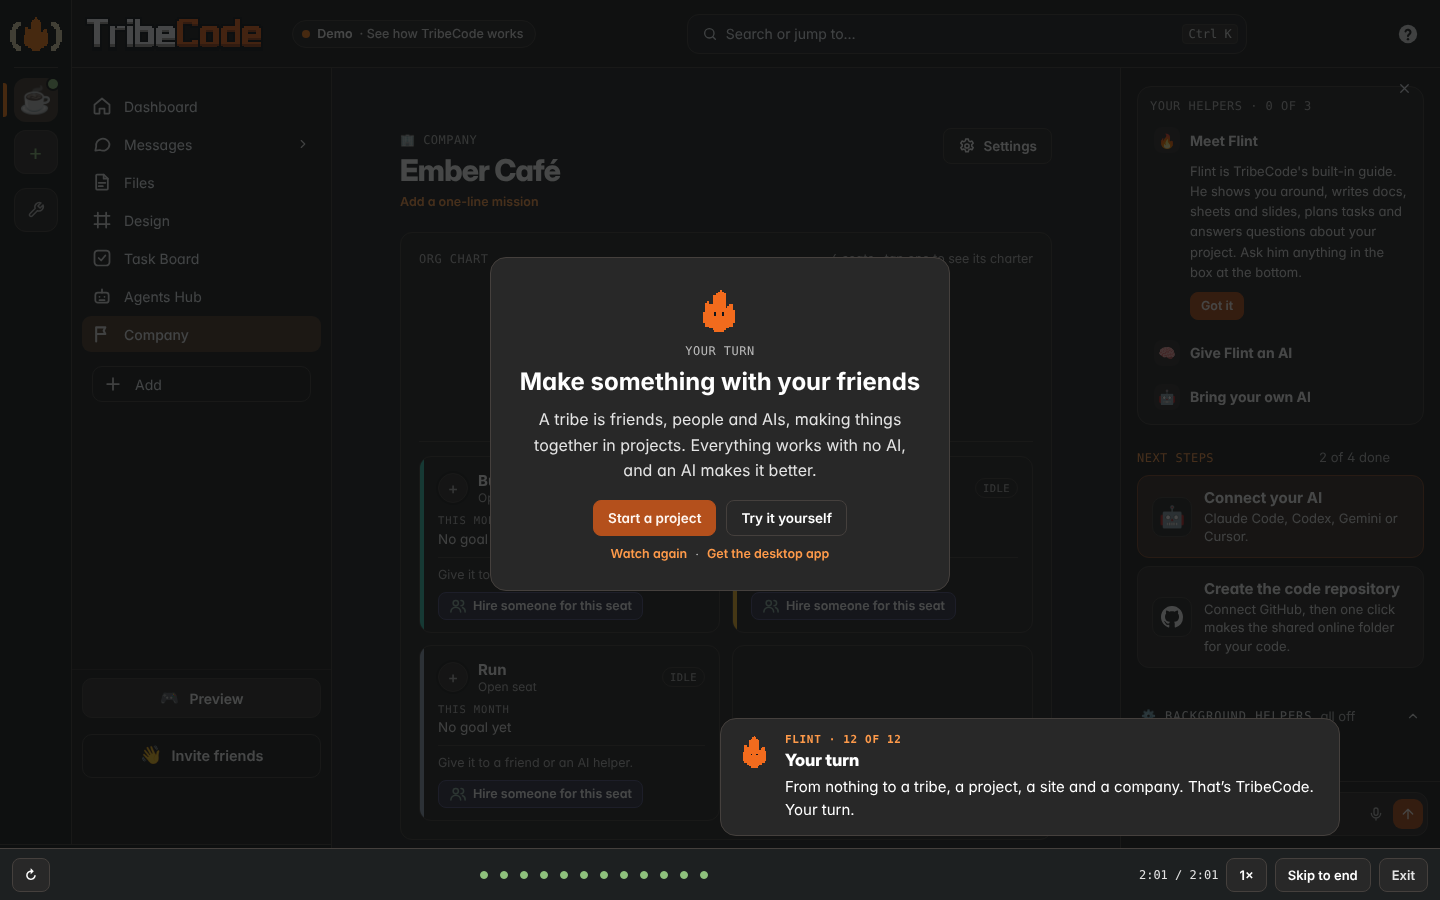
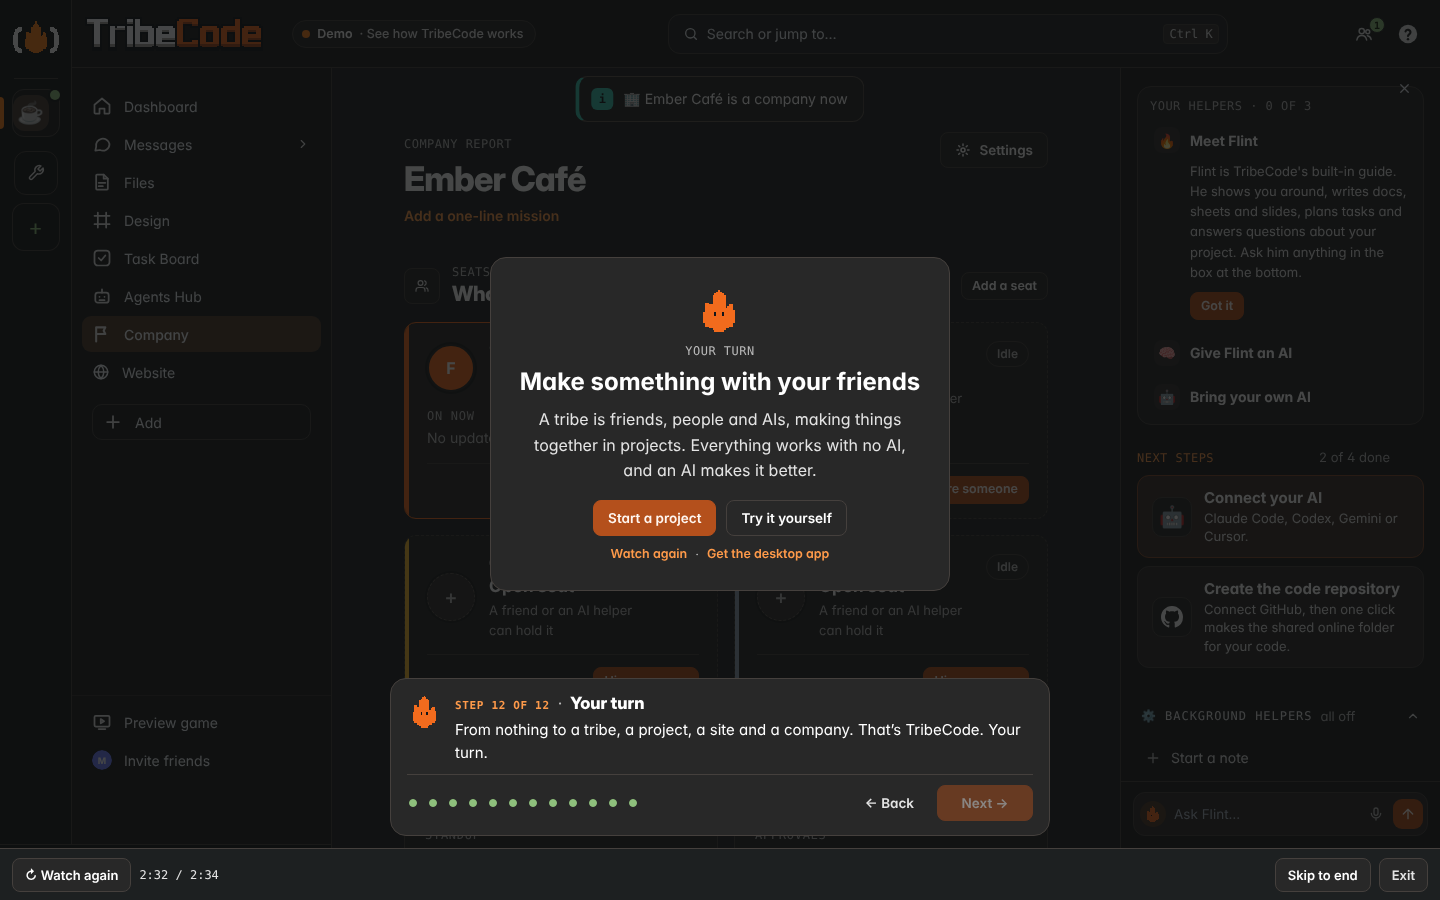
Test the demo tour's step mode and auto-play; demo-next screenshot
Step mode: one beat then wait, Next off while Flint acts, Next/→/Enter
advance, Back and ← replay (also across the reload for the first chapters),
Next in a loop to the end with every target found. Auto-play at 4x end to end.

Claude-Session: https://claude.ai/code/session_01Twew38tmNVdwNycXqatzin

diff --git a/app/test/e2e_demo_watch.py b/app/test/e2e_demo_watch.py
@@ -3,14 +3,17 @@ at the root, app/ui under /app/) on a static file server, like e2e_demo_tour.py.
 
 Checks: the website's "See how TribeCode works" link opens app/?demo=watch; the FIRST FRAME is a blank slate (the empty
 dashboard: "Make your first project", no project circles in the rail, no tribe, no projects in the demo state, none of
-your own name); at ?speed=4 the tour runs all 12 chapters end to end headless, every chapter's targets were found by the
+your own name); STEP MODE (the default, fix/demo-next): Flint plays one beat and waits, Next is off with "Flint is
+working…" while he acts, the caption says "Step 1 of 12 · A blank slate", Next and the → key advance, Back and ← replay
+the beat before (also across the reload that rebuilds the first two chapters), and pressing Next in a loop plays the
+whole tour with every target found; AUTO-PLAY at ?speed=4 runs all 12 chapters end to end headless, every chapter's targets were found by the
 watchdog (no skips), and Flint made everything from nothing in the real app (the tribe and Ember Café through the real
 Start a project sheet, the vision typed and saved, Maya joined and chatted, a task Maya accepted, a design, the café site
 in dark mode, an approval approved, a company made), and it ends on the "Your turn" card with no dim left. Esc mid-way
 removes every overlay (dim, ring, cursors, caption, Flint's cards). The chapter dots jump to a chapter (and from the end
-card back into the tour). Pause stops the clock, 1x/2x, Skip to end lands on Your turn. Help › "See how TribeCode works"
+card back into the tour). Auto-play ▸ / Pause switches the mode, 1x/2x (auto-play only), Skip to end lands on Your turn. Help › "See how TribeCode works"
 and the empty Home's "Tour with Flint" start it. Exit puts your own settings back exactly. No console errors.
-Usage: python app/test/e2e_demo_watch.py [--shots]   (--shots saves docs/screenshots/demo-blank-start.png, demo-blank-mid.png, demo-watch-end.png)
+Usage: python app/test/e2e_demo_watch.py [--shots]   (--shots saves docs/screenshots/demo-blank-start.png, demo-next.png, demo-blank-mid.png, demo-watch-end.png)
 """
 import functools, http.server, json, os, sys, threading, time
 from pathlib import Path
@@ -46,6 +49,10 @@ def watch(page, tag, errors):
 def state(pg): return pg.evaluate("TribeDemoWatch._test.state()")
 
 
+def rest_at(pg, sid, timeout=30000):   # Flint finished the beat of chapter sid and waits for Next
+    pg.wait_for_function("(id) => { const s = TribeDemoWatch._test.state(); return s.id === id && s.resting && !s.acting && !document.querySelector('#dw-next').disabled }", arg=sid, timeout=timeout, polling=50)
+
+
 def main():
     errors = []
     root = ES.assemble()
@@ -74,12 +81,68 @@ def main():
             assert first["title"] == "Make your first project", first["title"]
             assert REAL["name"] not in first["text"], "your own name shows inside the demo"
             if shots: time.sleep(1.2); pg.screenshot(path=str(SHOTS / "demo-blank-start.png"))
+            st = state(pg)
+            assert st["mode"] == "step", st
+            if st["acting"]: assert pg.locator("#dw-next").is_disabled() and pg.locator("#dw-busy").is_visible(), "Next is off while Flint acts"
             pg.evaluate("TribeDemoWatch.stop()")
+
+            # ---- step mode (4x so it's quick): one beat, then Flint waits for Next ----
+            pg.goto(APP + "?demo=watch&speed=4&mode=step")
+            pg.wait_for_function("window.TribeDemoWatch && TribeDemoWatch._test.state().running", timeout=20000)
+            assert state(pg)["mode"] == "step" and state(pg)["id"] == "blank"
+            pg.wait_for_function("TribeDemoWatch._test.state().acting", timeout=5000, polling=20)
+            assert pg.locator("#dw-next").is_disabled(), "Next is off while Flint acts"
+            assert "Flint is working" in pg.text_content("#dw-busy") and pg.locator("#dw-busy").is_visible()
+            assert pg.text_content("#dw-k") == "Step 1 of 12" and pg.text_content("#dw-t") == "A blank slate", pg.text_content("#dw-cap")
+            assert pg.locator("#dw-back").is_disabled(), "no Back on the first beat"
+            rest_at(pg, "blank")
+            assert not pg.locator("#dw-busy").is_visible()
+            c0 = state(pg)["clock"]; time.sleep(1.5)
+            st = state(pg); assert st["id"] == "blank" and st["resting"] and st["clock"] == c0, f"the tour went on without Next: {st}"
+            pg.click("#dw-next")
+            pg.wait_for_function("TribeDemoWatch._test.state().id === 'tribe'", timeout=3000, polling=20)
+            assert pg.locator("#dw-next").is_disabled() and state(pg)["acting"]
+            pg.keyboard.press("ArrowRight")   # ignored while he acts
+            assert state(pg)["id"] == "tribe"
+            rest_at(pg, "tribe")
+            pg.keyboard.press("ArrowRight")   # → is Next
+            pg.wait_for_function("TribeDemoWatch._test.state().id === 'project'", timeout=3000, polling=20)
+            rest_at(pg, "project")
+            assert pg.text_content("#dw-k") == "Step 3 of 12" and pg.text_content("#dw-t") == "Start a project"
+            assert pg.locator("#dw-dots [data-i='2'][aria-current='step']").count() == 1
+            if shots:
+                pg.evaluate("TribeDemoWatch.speed(1)"); pg.mouse.move(5, 5); time.sleep(0.6)
+                pg.screenshot(path=str(SHOTS / "demo-next.png"))
+            pg.keyboard.press("Enter")   # Enter is Next too
+            pg.wait_for_function("TribeDemoWatch._test.state().id === 'vision'", timeout=3000, polling=20)
+            rest_at(pg, "vision")
+            pg.click("#dw-back")   # Back: replay the beat before
+            pg.wait_for_function("TribeDemoWatch._test.state().id === 'project'", timeout=3000, polling=20)
+            rest_at(pg, "project")
+            assert pg.evaluate("TribeOffline.state().projects.length") == 1, "Back kept one Ember Café"
+            pg.keyboard.press("ArrowLeft")   # ← back to the tribe's making: it starts over from blank, at that chapter
+            pg.wait_for_function("window.TribeDemoWatch && TribeDemoWatch._test.state().running && TribeDemoWatch._test.state().id === 'tribe'", timeout=20000)
+            assert state(pg)["mode"] == "step" and pg.evaluate("!!TribeOffline.state().blank || TribeOffline.state().projects.length <= 1")
+            rest_at(pg, "tribe")
+            # Next in a loop: the whole tour, every target found
+            t0 = time.time()
+            while not state(pg)["finished"]:
+                assert time.time() - t0 < 150, f"step mode did not finish: {state(pg)}"
+                if pg.evaluate("!document.querySelector('#dw-next').disabled"): pg.click("#dw-next")
+                time.sleep(0.1)
+            log = pg.evaluate("TribeDemoWatch._test.log()")
+            assert not [e for e in log if not e["found"]], [e for e in log if not e["found"]]
+            assert sum(1 for e in log if e["target"] == "next") >= 10, log
+            pg.wait_for_selector("#dw-end .dw-end-card", state="visible", timeout=3000)
+            print(f"  step mode: Next in a loop from Make a tribe to Your turn in {time.time() - t0:.1f} s")
+            pg.evaluate("TribeDemoWatch.exit()")   # Exit wipes the demo (the site designer's draft too) before the auto-play run
+            pg.wait_for_function("window.TribeOffline && !TribeOffline.active()", timeout=15000)
 
             # ---- the whole thing at 4x, end to end ----
             pg.goto(APP + "?demo=watch&speed=4")
             pg.wait_for_function("window.TribeDemoWatch && TribeDemoWatch._test.state().running", timeout=20000)
             assert "demo=" not in pg.evaluate("location.search")
+            assert state(pg)["mode"] == "auto", "the fast run auto-plays"
             assert state(pg)["steps"] == STEPS, state(pg)["steps"]
             assert pg.locator("#demo-pill.wt").count() == 1 and "See how TribeCode works" in pg.text_content("#demo-pill")
             t0 = time.time(); shot1 = False
@@ -138,17 +201,15 @@ def main():
             assert not state(pg)["running"]
             assert pg.locator("#dw-ui, #dw-layer, #dw-end, #dw-pin").count() == 0
 
-            # ---- the controls at 1x: pause, speed, skip to end ----
+            # ---- the controls at 1x: Auto-play ▸ / Pause, speed (auto-play only), skip to end ----
             pg.evaluate("TribeDemoWatch.start({ speed: 1 })")
             pg.wait_for_selector("#dw-play", timeout=5000)
-            for sel in ["#dw-play", "#dw-speed", "#dw-skip", "#dw-exit", "#dw-dots [data-i='11']", "#dw-cap"]: assert pg.locator(sel).count() == 1, sel
-            assert "/ 2:" in pg.text_content("#dw-time"), pg.text_content("#dw-time")   # about two minutes
-            time.sleep(1.0)
-            pg.click("#dw-play"); assert state(pg)["paused"]
-            c0 = state(pg)["clock"]; time.sleep(0.8); assert state(pg)["clock"] == c0, "paused: the clock stops"
-            assert pg.evaluate("!document.querySelector('#dw-dim.on i') || getComputedStyle(document.querySelector('#dw-dim i')).opacity === '0'")
-            pg.click("#dw-play"); assert not state(pg)["paused"]
+            for sel in ["#dw-play", "#dw-speed", "#dw-next", "#dw-back", "#dw-skip", "#dw-exit", "#dw-dots [data-i='11']", "#dw-cap"]: assert pg.locator(sel).count() == 1, sel
+            assert "/ 2:" in pg.text_content("#dw-time"), pg.text_content("#dw-time")   # about two and a half minutes
+            assert state(pg)["mode"] == "step" and "Auto-play" in pg.text_content("#dw-play") and not pg.locator("#dw-speed").is_visible()
+            pg.click("#dw-play"); assert state(pg)["mode"] == "auto" and "Pause" in pg.text_content("#dw-play")
             pg.click("#dw-speed"); assert state(pg)["speed"] == 2 and pg.text_content("#dw-speed") == "2×"
+            pg.click("#dw-play"); assert state(pg)["mode"] == "step" and "Auto-play" in pg.text_content("#dw-play")
             pg.click("#dw-skip")
             pg.wait_for_selector("#dw-end .dw-end-card", state="visible", timeout=5000)
             pg.wait_for_function("TribeDemoWatch._test.state().finished", timeout=5000)
